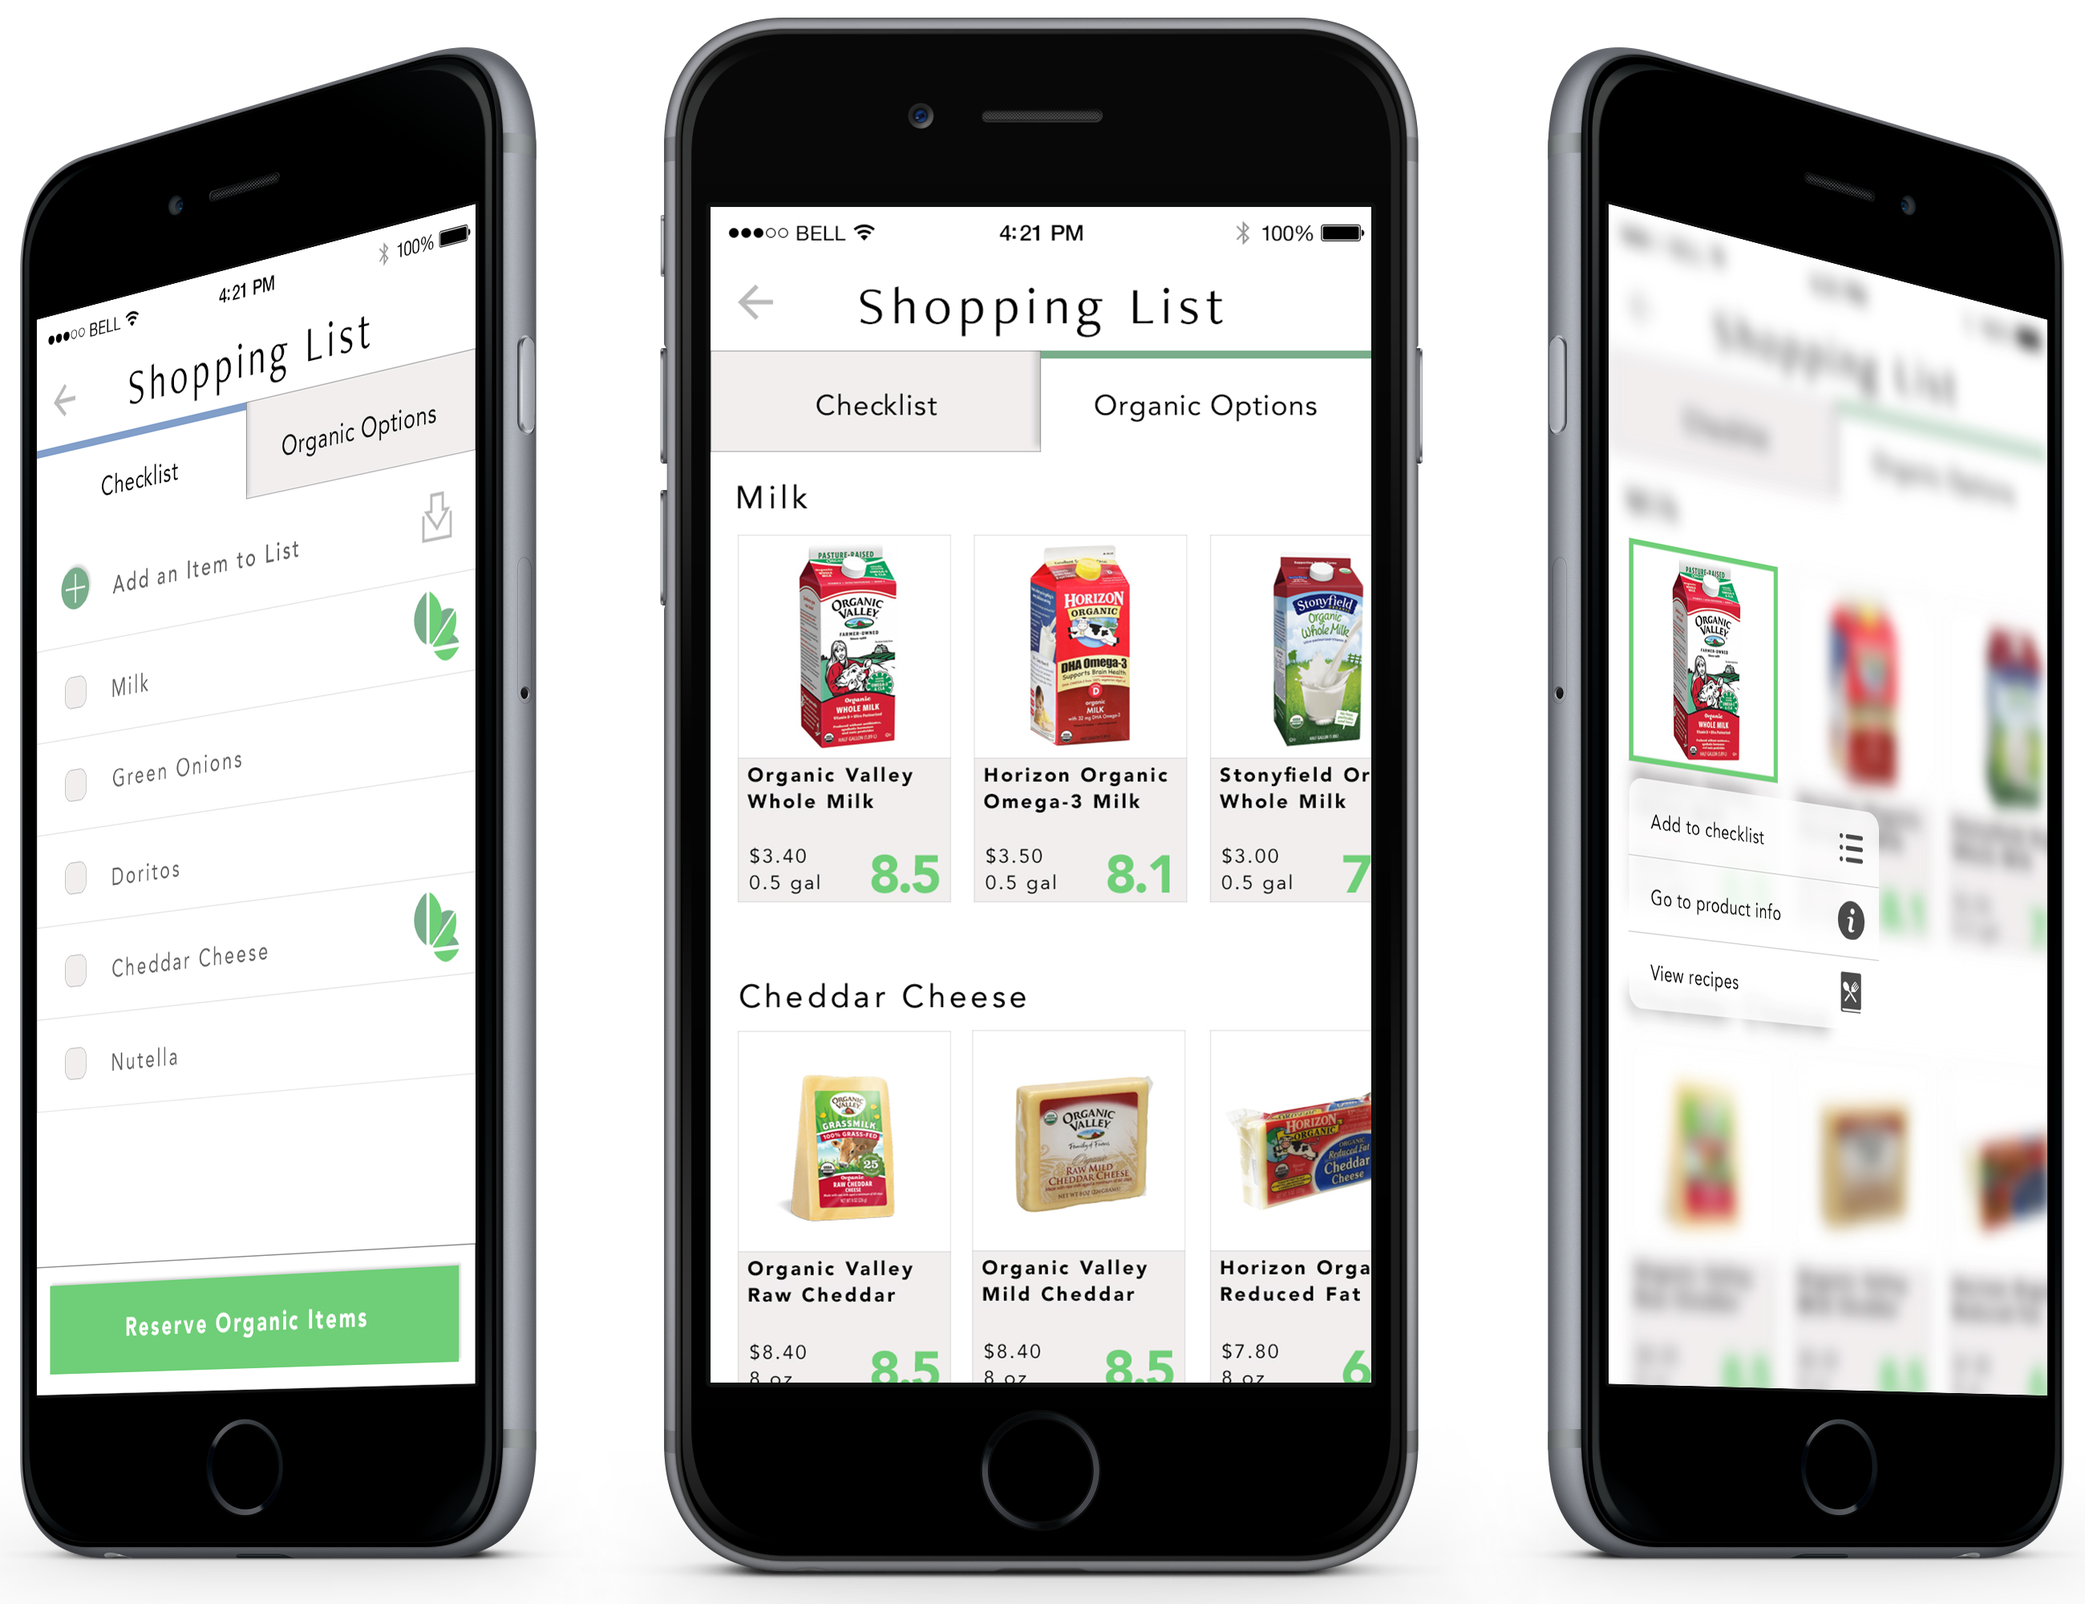
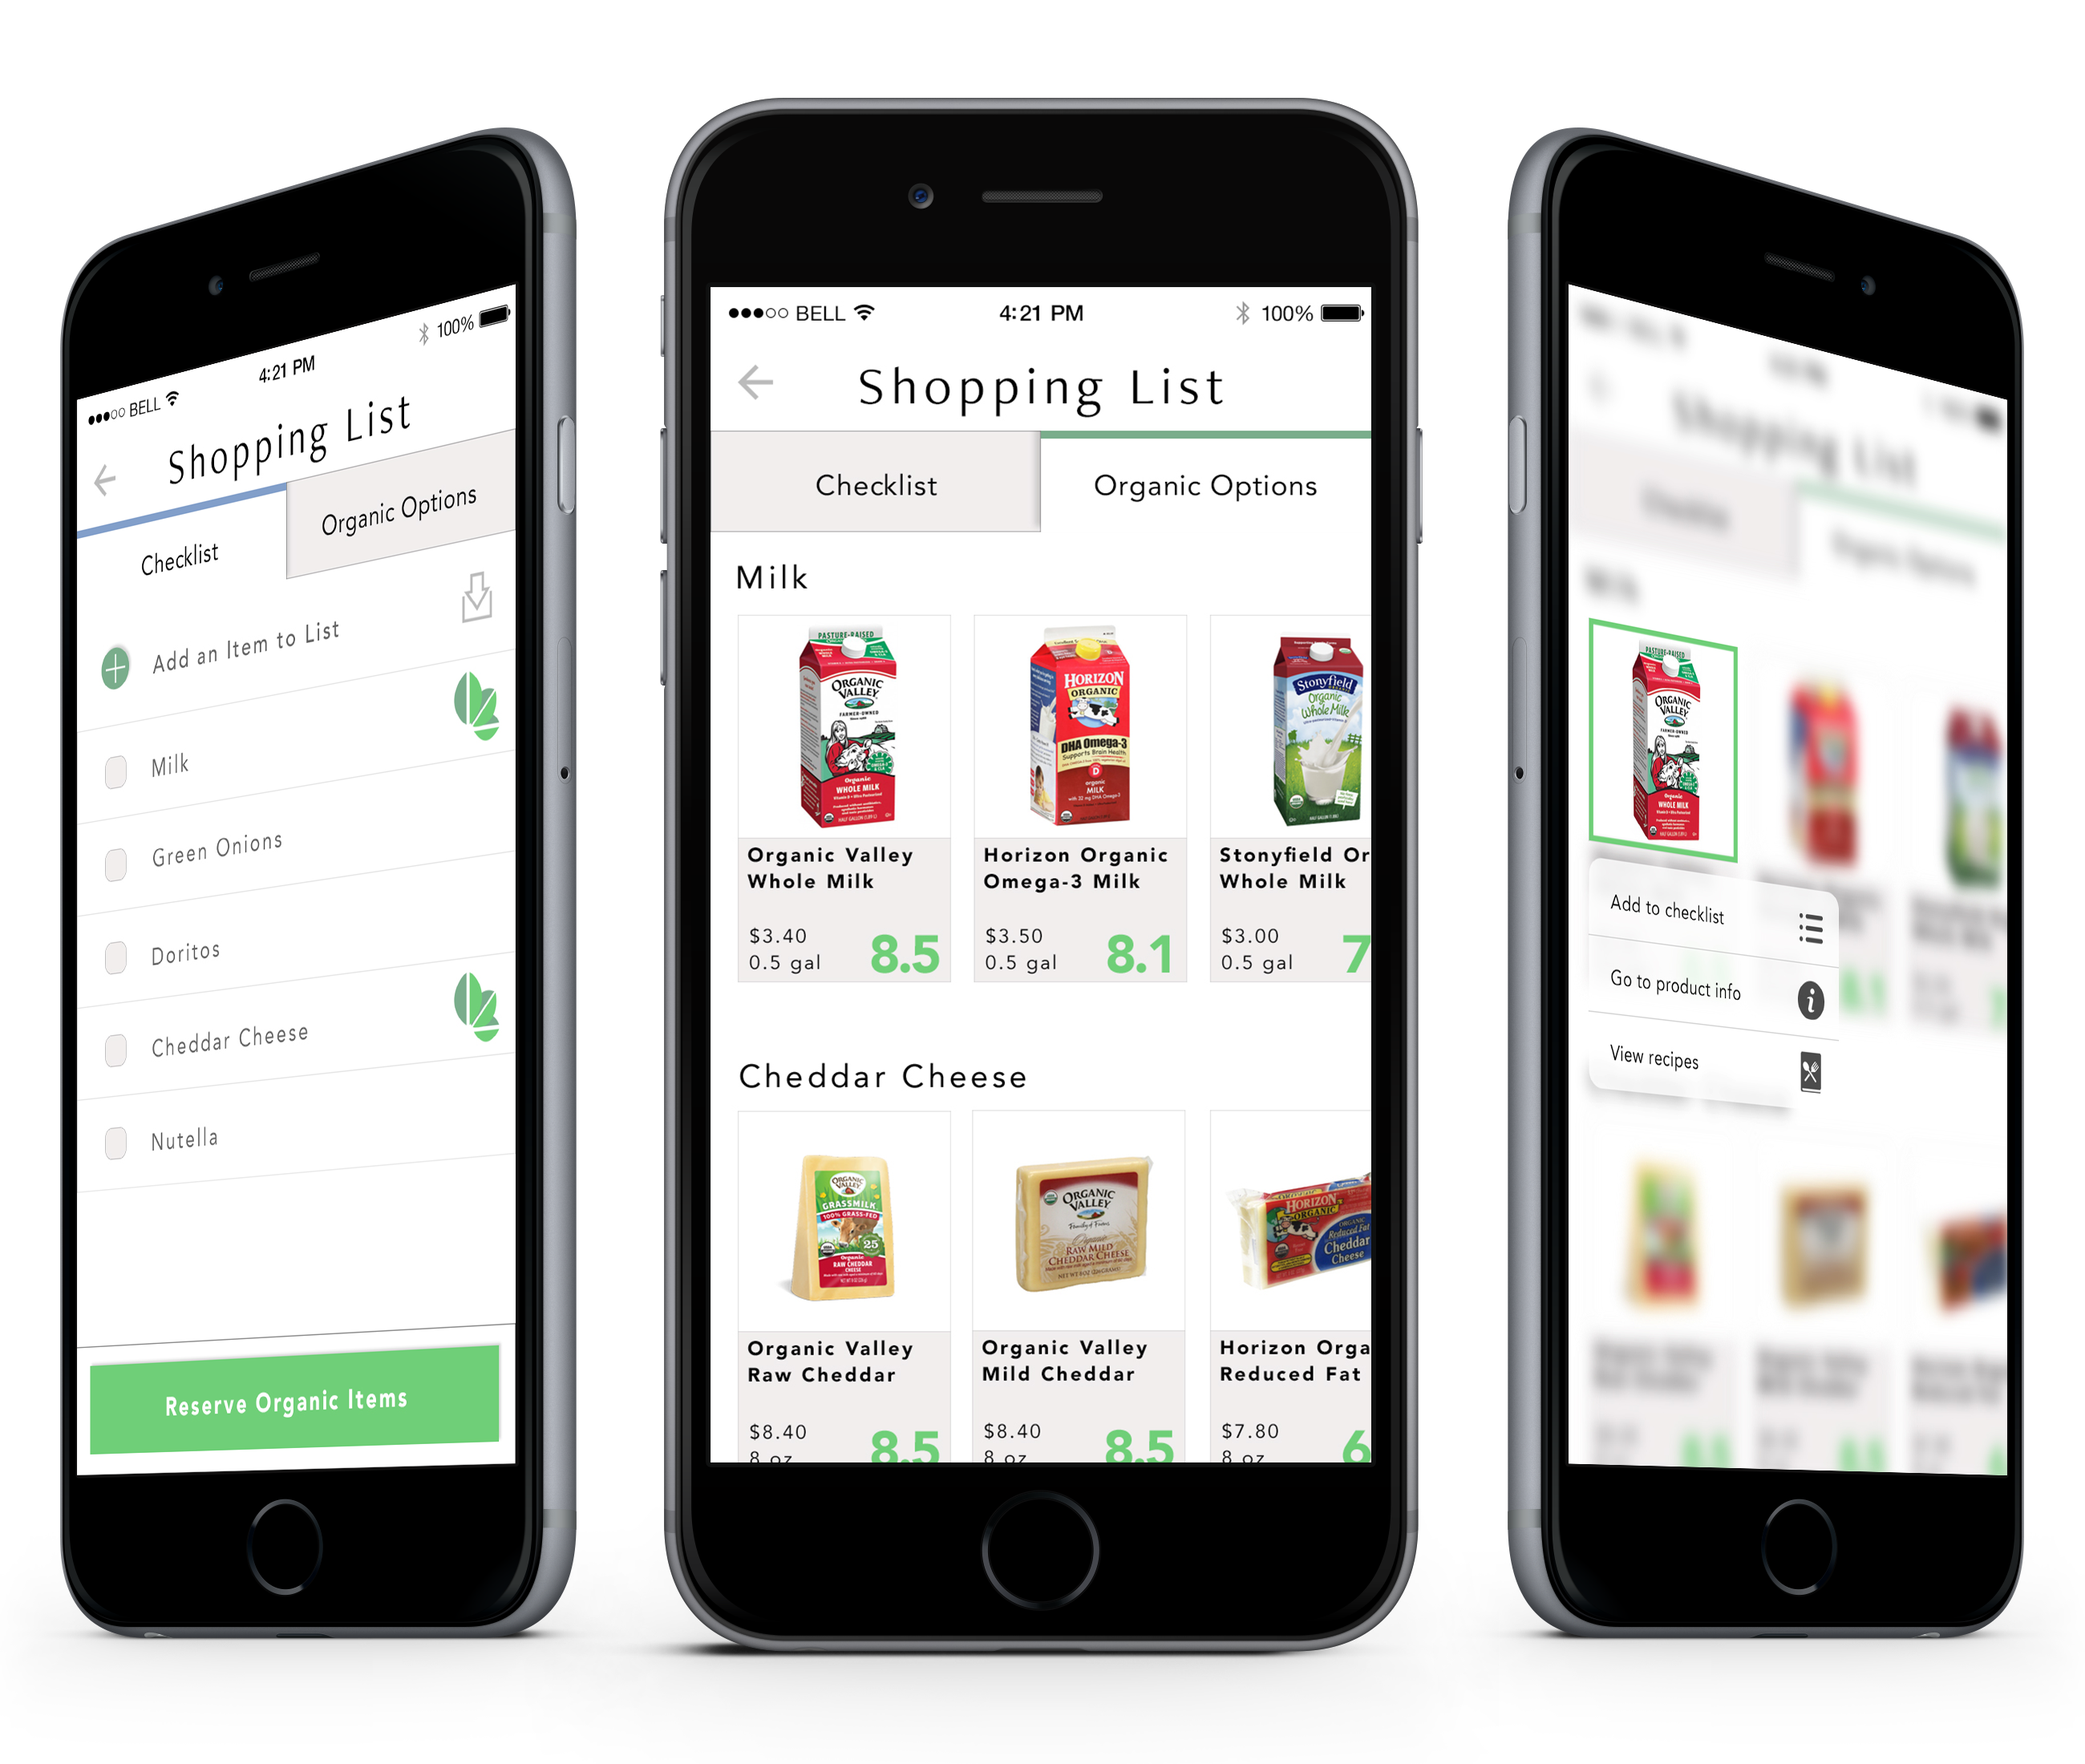
adjusted sprightly

diff --git a/css/styles.css b/css/styles.css
@@ -624,7 +624,7 @@ figcaption {
 
 .sprightlyMockup img {
 	width: 100%;
-	margin-bottom: 100px;
+	margin-bottom: 50px;
 }
 
 /*---------------------- Portfolio Nav Styles -----------------*/
